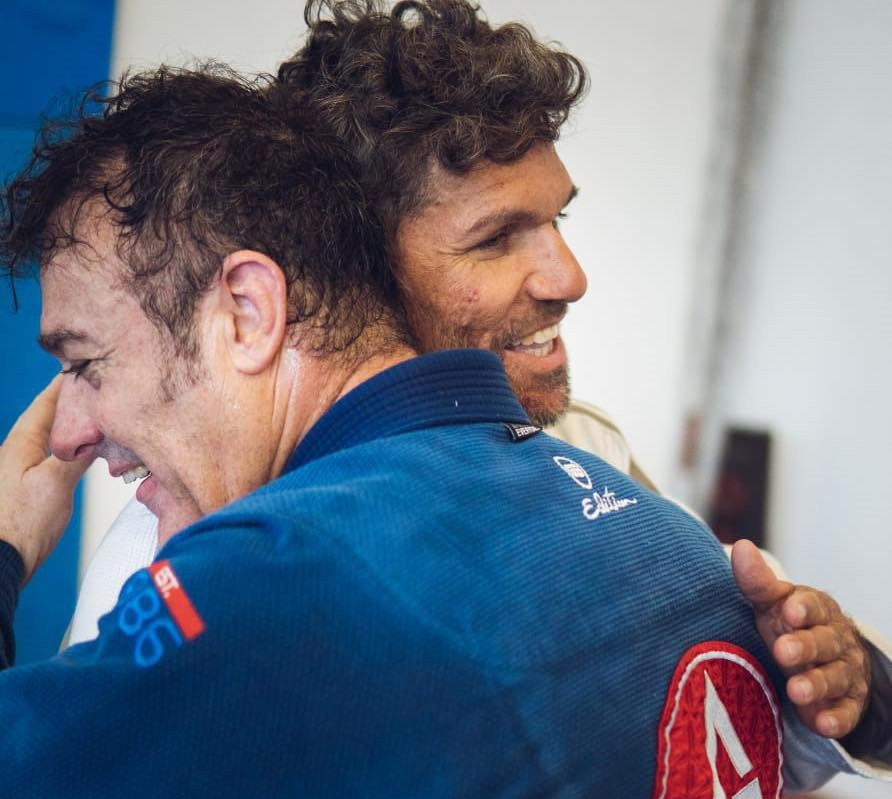
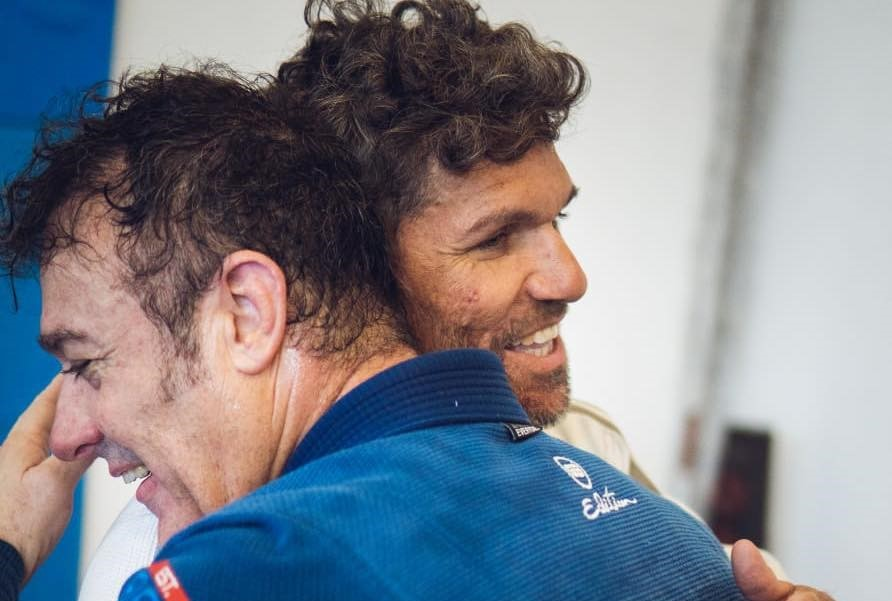
fixed photos from slider

diff --git a/styles.css b/styles.css
@@ -135,33 +135,36 @@
 /* SLIDER */
 
 #slider{
-    max-width: 900px;
-    max-height: 400px;
+    max-width: 100%;
+    height: auto;
     overflow: hidden;
     margin-top: 40px;
+    position: relative;
 
 }
   
-.slider-container {
+.slider-container{
     display: flex;
     transition: transform 0.5s ease-in-out;
 }
   
-.slider-item {
+.slider-item{
+    position: relative;
     min-width: 100%;
-    box-sizing: border-box;
+    overflow: hidden;
     
 }
   
-.slider-item img {
-    width: 70%;
-    display: flex;
-    margin-left: 135px;
+.slider-item img{
+    width: 100%;
+    max-height: 500px;
+    object-fit: contain;
+    display: block;
 }
 
 /* Navegación de la galería */
 
-.slider-navigation {
+.slider-navigation{
     display: flex;
     justify-content: space-between;
     position: absolute;
@@ -171,7 +174,7 @@
    
 }
   
-.nav-button {
+.nav-button{
     background-color: rgba(0,0,0, .3);
     color: white;
     border: none;
@@ -180,10 +183,10 @@
     border-radius: 5px;
 }
 
-.nav-button > span {
+.nav-button > span{
     font-size: 30px;
 }
 
-.nav-button:hover {
+.nav-button:hover{
     background-color: #005f5f;
 }

diff --git a/index.html b/index.html
@@ -63,6 +63,9 @@
                     <img src="images/GB2.jpg" alt="Mestre Demis Malloy y Paco">
                 </figure>
                 <figure class="slider-item">
+                    <img src="images/GBKids.jpg" alt="GB Kids">
+                </figure>
+                <figure class="slider-item">
                     <img src="images/GB1.jpg" alt="Foto familia Gracie Barra">
                 </figure>
                 <figure class="slider-item">
@@ -73,11 +76,7 @@
                 </figure>
                 <figure class="slider-item">
                     <img src="images/GB5.jpg" alt="GB Family">
-                </figure>
-                <figure class="slider-item">
-                    <img src="images/GBKids.jpg" alt="GB Kids">
-                </figure>
-                
+                </figure>      
             </div>
             <nav class="slider-navigation">
                 <button class="nav-button prev-button"><span>&#60;</span></button>

diff --git a/responsive.css b/responsive.css
@@ -39,7 +39,6 @@
         cursor: pointer;
         border: none;
         color: black;
-
    }
 
    #header .button:hover{
@@ -72,8 +71,7 @@
         display: flex;
         flex-flow: column wrap;
         list-style: none;
-        row-gap: 25px;
-        
+        row-gap: 25px; 
    }
 
    .nav a{
@@ -85,6 +83,5 @@
    .nav a:hover{
         color: rgb(255, 0, 0);
    }
-
+ 
 }
-
